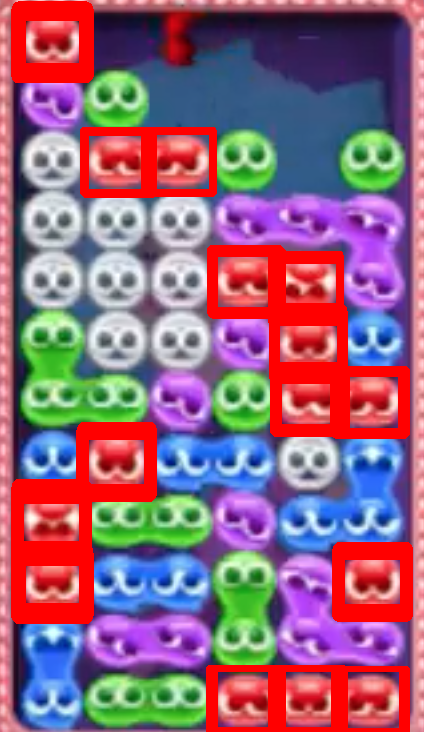
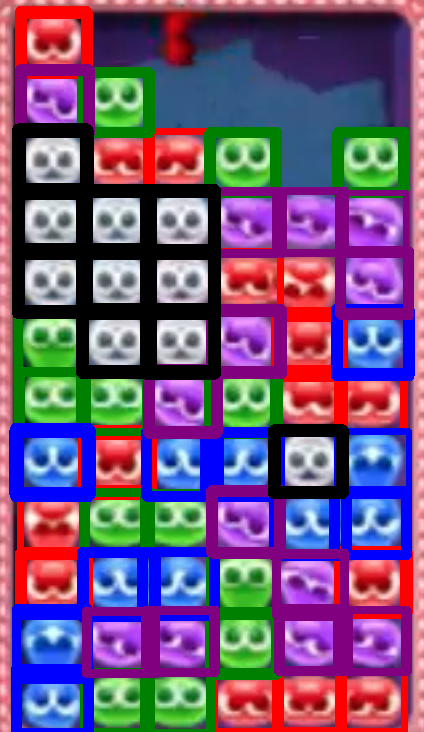
Fix

diff --git a/capuyo.py b/capuyo.py
@@ -1,34 +1,48 @@
 import cv2
 import numpy as np
 
-board = cv2.imread('./puyo2.png')
+TEMPLATE_THRESHOLD = 0.6
+BOARD_FILE = './puyo2.png'
 
-templates = {
-    'blue': cv2.imread('templates/b.png'),
-    'purple': cv2.imread('templates/p.png'),
-    'ojama': cv2.imread('templates/o.png'),
-    'red': cv2.imread('templates/r.png'),
-    'green': cv2.imread('templates/g.png'),
+board = cv2.imread(BOARD_FILE)
+result = cv2.imread(BOARD_FILE)
+
+colors = {
+    'red': {
+        'template': cv2.imread('templates/r.png'),
+        'bgr': [0, 0, 255]
+    },
+    'green': {
+        'template': cv2.imread('templates/g.png'),
+        'bgr': [0, 128, 0]
+    },
+    'blue': {
+        'template': cv2.imread('templates/b.png'),
+        'bgr': [255, 0, 0]
+    },
+    'purple': {
+        'template': cv2.imread('templates/p.png'),
+        'bgr': [128, 0, 128]
+    },
+    'ojama': {
+        'template': cv2.imread('templates/o.png'),
+        'bgr': [0, 0, 0]
+    },
 }
 
-detect_color = 'ojama'
+for color, contents in colors.items():
+    template = contents['template']
+    match = cv2.matchTemplate(board, template, cv2.TM_CCOEFF_NORMED)
+    histogram = cv2.calcHist([template], [0, 1, 2], None, [8, 8, 8], [0, 256, 0, 256, 0, 256])
 
-match = cv2.matchTemplate(board, templates[detect_color], cv2.TM_CCOEFF_NORMED)
-threshold = 0.35
+    h, w, c = template.shape
+    loc = np.where(match >= TEMPLATE_THRESHOLD)
 
-h, w, c = templates[detect_color].shape
-loc = np.where(match >= threshold)
+    for pt in zip(*loc[::-1]):
+        cropped = board[pt[1]:pt[1]+h, pt[0]:pt[0]+w]
+        cropped_hist = cv2.calcHist([cropped], [0, 1, 2], None, [8, 8, 8], [0, 256, 0, 256, 0, 256])
+        d = cv2.compareHist(histogram, cropped_hist, cv2.HISTCMP_CORREL)
+        if d > 0.1:
+            cv2.rectangle(result, pt, (pt[0] + w, pt[1] + h), contents['bgr'], 2)
 
-for pt in zip(*loc[::-1]):
-    cropped = board[pt[1]:pt[1]+h, pt[0]:pt[0]+w]
-    blue, green, red = cropped.mean(0).mean(0)
-    # if blue > red and blue > green:
-    #     cv2.rectangle(board, pt, (pt[0] + w, pt[1] + h), (0,0,255), 2)
-    # if green > blue and green > red:
-    #     cv2.rectangle(board, pt, (pt[0] + w, pt[1] + h), (0,0,255), 2)
-    if blue < 120 and green < 120 and red > 170:
-        cv2.rectangle(board, pt, (pt[0] + w, pt[1] + h), (0,0,255), 2)
-    # cv2.rectangle(board, pt, (pt[0] + w, pt[1] + h), (0,0,255), 2)
-
-cv2.imwrite('result.png', board)
-cv2.imwrite('cropped.png', cropped)
+cv2.imwrite('result.png', result)
